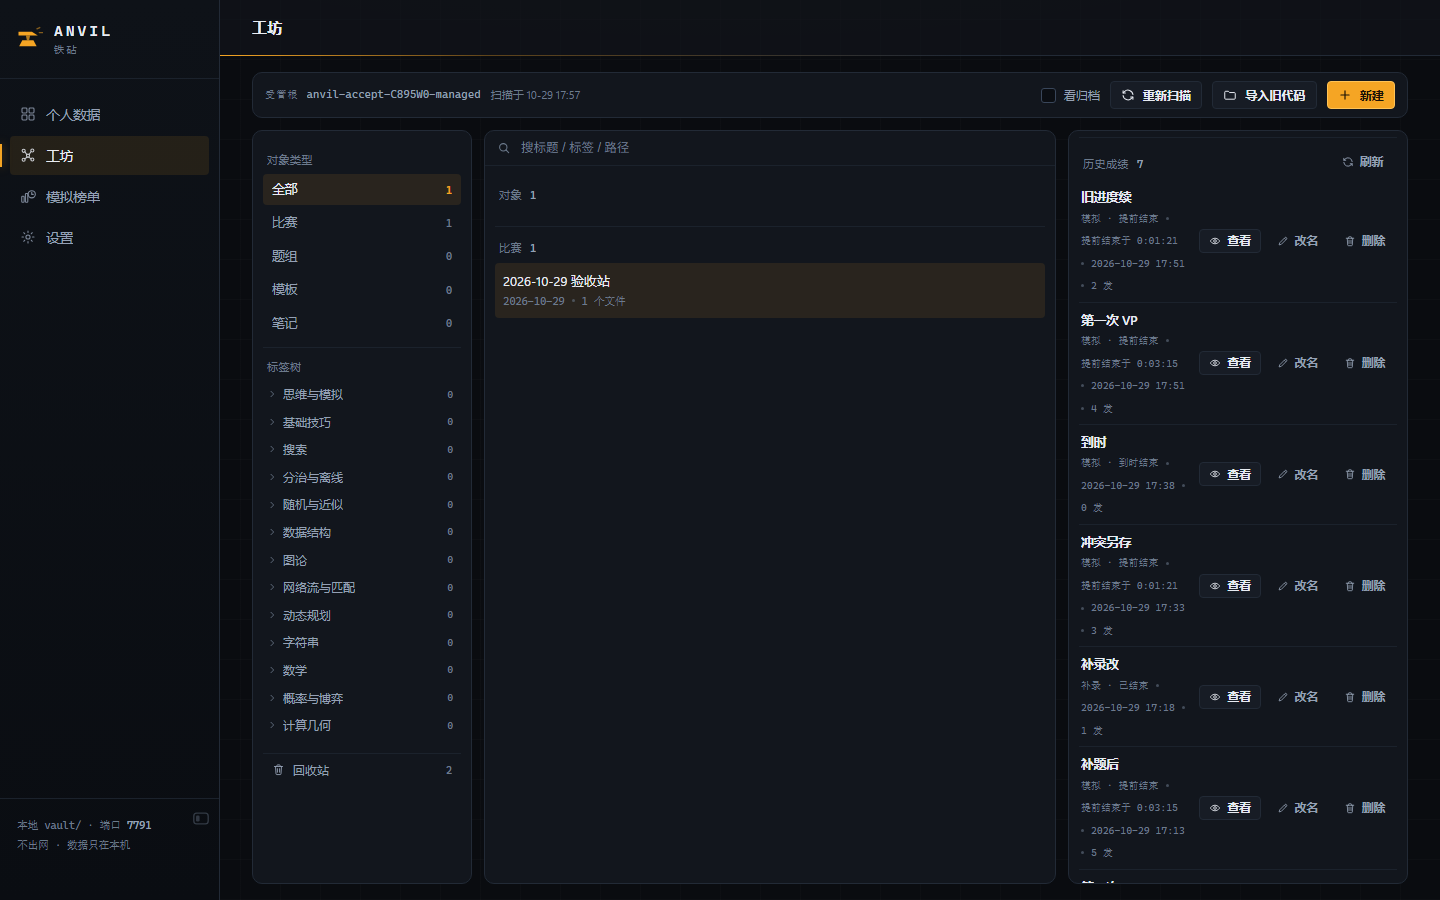
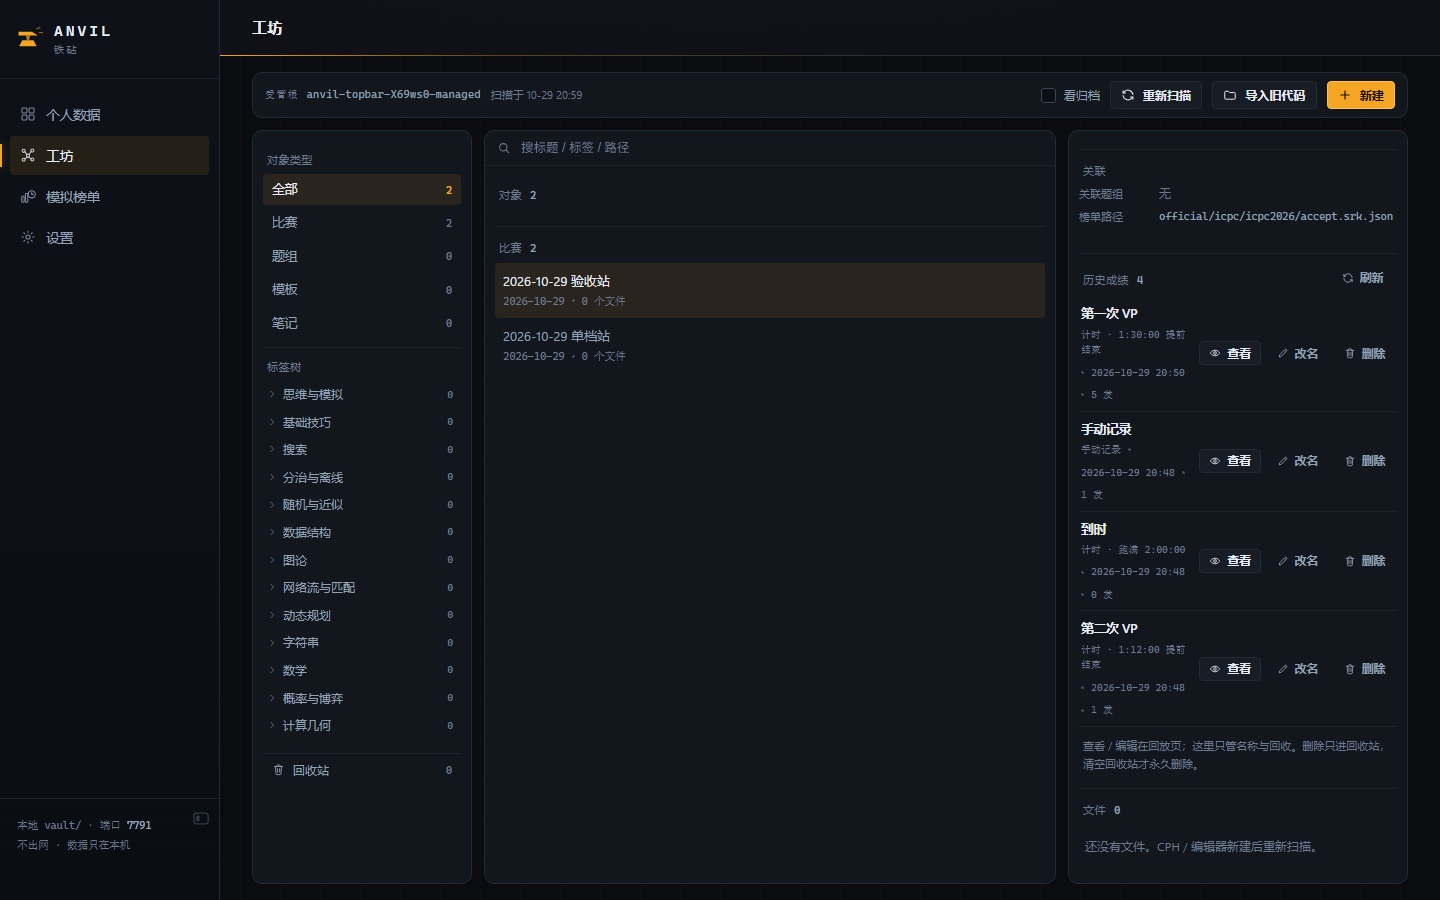
文档：顶栏收口转现行并补顶栏状态、菜单与 1280 验收截图

diff --git a/docs/reports/实现说明-榜单-多存档.md b/docs/reports/实现说明-榜单-多存档.md
@@ -5,7 +5,7 @@
 > **类型**：交付报告
 > **依据**：[29-榜单-多存档契约](../contracts/29-榜单-多存档契约.md)
 > **关联**：[16-模拟榜单规格](../contracts/16-模拟榜单规格.md)、[20-榜单增强规格](../contracts/20-榜单增强规格.md)、[23-工坊-代码管辖契约](../contracts/23-工坊-代码管辖契约.md)、[26-工坊-题组组合契约](../contracts/26-工坊-题组组合契约.md)、[27-工坊-关联上限与归档冻结契约](../contracts/27-工坊-关联上限与归档冻结契约.md)、[5a-5 报告 §6](实现说明-工坊-5a5.md)
-> **实现**：分支 `feat/arena-multi-records`（基于 main `e4c0f2a`；文档提交 `eb7f4aa`）；实现提交 `9a32fa1`（shared / server）、`563c7d4`（web）、`70f8eef`（验收修复）、`acfb6be`（多标签失效修复）、`cccd6a0`（1280 顶栏）；`npm run verify` 32 文件、620/620；待合并 main。
+> **实现**：分支 `feat/arena-multi-records`（基于 main `e4c0f2a`；文档提交 `eb7f4aa`）；实现提交 `9a32fa1`（shared / server）、`563c7d4`（web）、`70f8eef`（验收修复）、`acfb6be`（多标签失效修复）、`cccd6a0`（1280 顶栏）、`be82553`（顶栏收口）、`ba8b9c7`（顶栏验收细节）；`npm run verify` 32 文件、620/620；待合并 main。
 
 ---
 
@@ -36,6 +36,7 @@
 | D8 | 旧 review 可看且不假称完赛；旧 live 可显式恢复 | 完成 | 旧 review 投影 `legacy-review/unknown`、改名保留 unknown、确认后转 manual；旧 live 恢复为暂停草稿、原件不删、训练结束另建新档 |
 | D9 | 过期写入被拒；慢响应不串档 | 完成 | 服务端 revision；外部改名后保存 409 + 本地修改保留 + 另存；真实两标签写入使旧页失效；`multi-06` |
 | D10 | §8 自动测试 + 隔离浏览器验收 + 文档同步 | 完成 | 本文、契约状态、docs/README、AGENTS 已同步；§4 / §5 |
+| D11 | 顶栏只留一个主操作；其余进带文字的更多菜单；状态与文案收口；1280 不折行 | 完成 | 五种身份 + 菜单键盘 + 多档计数 + 1280 均验；查看身份无保存、编辑身份保留保存（用户确认）；`multi-10` / `multi-11` / `multi-12` / `multi-13` / `multi-14` / `multi-09` |
 
 ---
 
@@ -45,6 +46,7 @@
 - **服务端**：`work/records.ts` 文件层 + `work/store.ts` 宿主 / 写队列 / 回收站；新 `arena-records` 系列接口（列表 / 条目 / 旧档 / 创建 / 更新 / 改名 / 回收 / 恢复），创建 201 / 幂等 200，成绩写 1 MiB；回收清单 schema 2 `arena-record` 与对象 schema 1 并存。
 - **前端**：单键 `arena:draft:<path>` 草稿（phase / session / ghost / result / target / savedBaseline / pendingSave）；旧 `arena:session:` / `arena:ghost:` 在新键不存在时迁移，成功后才删旧键；三种身份（当前练习 / 查看 / 编辑）加查看终榜；历史选择层、命名 / 替换确认、冲突与未知结果对账、多标签失效提示。
 - **工坊**：比赛详情「历史成绩」区（改名 / 删除 / 旧进度恢复），回收站两类条目徽标、所属比赛与父比赛提示。
+- **顶栏收口（§6.1.1 / D11）**：常驻只留回到目录 / 标题 / 状态条 / 时钟（并入状态条）/ 我的成绩排名 / 保存；其余进带文字的「更多」菜单（历史成绩 + 计数、我的成绩、另存一份、再练一次、手动记一场、标记旧成绩已结束、重试对账）；查看身份主按钮改为编辑成绩、无保存；编辑身份保留保存（用户确认）；封榜视角 / 仅正式队移到榜体第二行工具条；状态统一为一句话；多档时保存右侧显示 `→ 目标`，单档仅 tooltip，保存成功短暂显示 `已保存到 …`；多档首次出现时全局提示一次历史成绩入口已进菜单。
 - **旧数据**：旧根 `record.json` 只读兼容；review 投影进 `records`，live 只进 `legacy`；仅改名升级保留 unknown，编辑需确认结束后转 manual；旧 live 恢复不改原文件。
 - 不新增依赖、不新增 SQLite 表、不改比赛 / 题组模型。
 
@@ -75,11 +77,12 @@ vite build  ✓（dist 约 447 KB / gzip 134 KB）
 | B 计时中查看 A、拖轴、回 B | A 只读；草稿仍 0 发、目标 null；窗口标签仍是 B 的练习 |
 | B 有修改编辑 A：取消 / 放弃 / 保存后切换 | 三条路径均验；取消保留 B；放弃丢弃修改；保存后 A 更新成功再载入 B |
 | 编辑 A 后另存「补题后」 | A 不变（4 发），新档出现；后续保存只更新新档（5 发） |
-| 零提交保存 / 事后补录 | 零成绩 0 发保存成功；查看终榜 → 录入已结束的成绩 → manual/declared 保存成功 |
+| 零提交保存 / 事后补录 | 零成绩 0 发保存成功；查看终榜 → 更多 → 手动记一场 → manual/declared 保存成功 |
 | 回收单档 / 整场 / 恢复 / 清空 | 单档恢复保 ID；整场恢复带回档；父比赛回收时单档恢复被挡并提示；清空删除两类合法条目 |
-| 旧 review / 旧 live | review 投影「结束时间未知」；改名保留 unknown；确认后编辑转 manual；live 恢复默认暂停、原件保留、新建「旧进度续」 |
+| 旧 review / 旧 live | review 投影「旧存档 · 结束时间未知」；改名保留 unknown；标记旧成绩已结束后编辑转 manual；live 恢复默认暂停、原件保留、新建「旧进度续」 |
 | 两标签编辑同档 | 真实两页同源：另一页写入后旧页出现「另一个标签页改了本场草稿」并拒绝写入，重新读取后恢复；外部改名后保存返回 409，本地修改保留，另存成功 |
 | 断网 / 读档失败 / 保存失败 | 无效 record 深链留在错误态可重试、不退回草稿；停服务后保存显示「保存结果未知」，本地草稿保留；重启后可重新读取 |
+| 顶栏五种状态 / 菜单键盘 / 1280 | 进行中 / 已结束 / 查看 / 编辑 / 旧成绩各只出现一个主操作；状态一句话；Tab / Enter 展开，方向键移动，Escape 关闭并归还焦点；1280 标题省略、保存与「更多」不折行（`scrollWidth = clientWidth`） |
 
 - 浏览器验收使用临时数据；测试后已清理临时成绩 / 笔记、恢复临时回收站并关闭自起服务。
 
@@ -90,14 +93,19 @@ vite build  ✓（dist 约 447 KB / gzip 134 KB）
 | 文件 | 证明 |
 |---|---|
 | `design/_shots/multi-01-catalog.png` | 目录行显示「已结束 · 已保存」、查看成绩 / 查看终榜 / 历史成绩入口 |
-| `design/_shots/multi-02-practice.png` | 当前练习身份、结束状态、保存 / 另存、保存目标名、历史入口 |
-| `design/_shots/multi-03-history.png` | 历史层多档 + 结束状态 + 旧进度行 |
-| `design/_shots/multi-04-view.png` | 「查看：补题后」只读身份、A 档幽灵行、编辑成绩 / 回到当前练习 |
+| `design/_shots/multi-02-practice.png` | 顶栏收口后的当前练习：单状态「当前练习 · 已保存」、保存为主、`→ 第一次 VP`、第二行开关 |
+| `design/_shots/multi-03-history.png` | 历史层多档 + 新文案（计时 / 手动记录 / 跑满 / 提前结束） |
+| `design/_shots/multi-04-view.png` | 「查看：第一次 VP · 1:30:00 提前结束 · 当前练习仍在计时」、编辑成绩主按钮、无保存 |
 | `design/_shots/multi-05-replace.png` | 进行中草稿的替换确认（结束并保存 / 放弃 / 取消） |
 | `design/_shots/multi-06-conflict.png` | revision 冲突条、本地修改仍在、重新读取 / 另存 |
-| `design/_shots/multi-07-workbench-records.png` | 工坊比赛详情历史成绩区（改名 / 删除 / 查看） |
+| `design/_shots/multi-07-workbench-records.png` | 工坊比赛详情历史成绩区（改名 / 删除 / 查看，新结束文案） |
 | `design/_shots/multi-08-workbench-trash.png` | 回收站两类条目（对象 / 成绩）、所属比赛、恢复动作 |
-| `design/_shots/multi-09-practice-1280.png` | 1280 宽度顶栏不溢出；目标名让位，全名在保存按钮 tooltip |
+| `design/_shots/multi-09-practice-1280.png` | 1280 宽度标题省略，保存与「更多」不折行、不溢出 |
+| `design/_shots/multi-10-menu.png` | 「更多」菜单：历史成绩（计数 4）/ 我的成绩 / 另存一份 / 再练一次 |
+| `design/_shots/multi-11-running.png` | 进行中状态「当前练习 · 计时 0:01:06」、无保存、菜单与时钟控制 |
+| `design/_shots/multi-12-edit.png` | 编辑身份「编辑：第一次 VP · 有修改未保存」、保存为主、回到当前练习 |
+| `design/_shots/multi-13-legacy.png` | 旧成绩「旧成绩 · 需确认是否已结束」、菜单含「标记旧成绩已结束」 |
+| `design/_shots/multi-14-review.png` | 查看终榜「查看终榜 · 只读」、菜单含「手动记一场」、无保存 |
 
 ---
 
@@ -107,6 +115,7 @@ vite build  ✓（dist 约 447 KB / gzip 134 KB）
 - **多标签不承诺并行编辑**：同一草稿被另一标签改动后，旧页只读并要求重新读取；正式档靠 revision 防覆盖。真实双页已验证失效提示，未做自动合并。
 - **超时对账路径**：浏览器实测的是“服务不可达 → 结果未知 → 重新读取”；60s 读超时后的 idempotent 重试由服务端单测覆盖，未在浏览器里构造完整 60s 延迟。
 - **1280 顶栏**：保存目标名在 ≤1320 隐藏，全名放在「保存」按钮 title；这是契约允许的“省略但可查看全名”。
+- **顶栏收口口径（用户 2026-10-29 确认）**：查看历史身份不显示保存（主按钮编辑成绩）；编辑身份保留保存为主按钮；「我的成绩」进菜单；不新增“存到其它档”；多档历史入口提示全局一次。
 - **工坊历史区滚动**：记录多时右栏需要滚动；未做分页（个人数据量，非本片范围）。
 - **不处理**：单份永久删除、成绩曲线、存档内版本历史、自动合并冲突、性能专项、真实 srk 数据入库（契约 §2.2）。
 
@@ -116,7 +125,7 @@ vite build  ✓（dist 约 447 KB / gzip 134 KB）
 
 - `packages/shared/src/arena-records.ts`（新）：schema 2、结果组合、名称 / ID、DTO、旧 review 投影；`work.ts` 抽出 ghost 校验并扩展回收条目联合类型。
 - `packages/server/src/work/records.ts`（新）：存档文件、revision、缓存榜单校验、回收清单、恢复映射；`store.ts` / `routes.ts`：宿主解析、写队列、接口与两类回收。
-- `packages/web/src/components/arena/draft.ts`（新）、`ArenaDialogs.tsx`（新）、`ArenaBoard.tsx` / `ArenaCatalog.tsx` / `Arena.tsx` / `record.ts` / `session.ts` / `GhostPanel.tsx` / `App.tsx` / `api.ts`。
+- `packages/web/src/components/arena/draft.ts`（新）、`ArenaDialogs.tsx`（新）、`ArenaMenu.tsx`（新）、`ArenaBoard.tsx` / `ArenaCatalog.tsx` / `Arena.tsx` / `record.ts` / `session.ts` / `GhostPanel.tsx` / `App.tsx` / `api.ts`。
 - `packages/web/src/components/work/WorkRecords.tsx`（新）、`WorkDetail.tsx` / `WorkList.tsx` / `Workbench.tsx`；`styles.css`。
 - 复现：`npm run dev` 后 `#/arena`；或 `npm run build` + `npm start`。真实使用时比赛首次保存会创建 `contest` 与 `.anvil-records/`。
 

diff --git a/docs/contracts/29-榜单-多存档契约.md b/docs/contracts/29-榜单-多存档契约.md
@@ -5,7 +5,7 @@
 > **类型**：功能契约
 > **依据**：用户确认“一场比赛、多份训练结果、每场一份当前草稿”；正式存档仅在训练结束后保存，切换前询问未保存修改，单份删除可恢复。
 > **关联**：[16-模拟榜单规格](16-模拟榜单规格.md)、[20-榜单增强规格](20-榜单增强规格.md)、[23-工坊-代码管辖契约](23-工坊-代码管辖契约.md)、[26-工坊-题组组合契约](26-工坊-题组组合契约.md)、[27-工坊-关联上限与归档冻结契约](27-工坊-关联上限与归档冻结契约.md)；历史限制见 [5a-5 报告 §6](../reports/实现说明-工坊-5a5.md)。
-> **实现**：分支 `feat/arena-multi-records`（基于 main `e4c0f2a`，文档提交 `eb7f4aa`）；实现提交 `9a32fa1`（shared / server）、`563c7d4`（web）、`70f8eef`（验收修复）、`acfb6be`（多标签失效修复）、`cccd6a0`（1280 顶栏）；`npm run verify` 32 文件、620/620。交付与验收见 [实现说明-榜单-多存档](../reports/实现说明-榜单-多存档.md)。
+> **实现**：分支 `feat/arena-multi-records`（基于 main `e4c0f2a`，文档提交 `eb7f4aa`）；实现提交 `9a32fa1`（shared / server）、`563c7d4`（web）、`70f8eef`（验收修复）、`acfb6be`（多标签失效修复）、`cccd6a0`（1280 顶栏）、`be82553`（顶栏收口）、`ba8b9c7`（顶栏验收细节）；`npm run verify` 32 文件、620/620。交付与验收见 [实现说明-榜单-多存档](../reports/实现说明-榜单-多存档.md)。
 > **编号**：28 已用于备存分支的 UI/UX 契约，本篇使用 29，不取代或启用 UI/UX 方案。
 
 ---
@@ -233,26 +233,27 @@
 - 目录显示当前练习的进行中 / 已结束未保存状态，不拿“最新档时间”替代当前练习状态；零成绩也能找到保存入口。
 - 进入历史列表后才读该场存档，不为整个外部目录逐场发请求，不把工坊存档数混进上游目录 DTO。
 
-#### 6.1.1 顶栏收口（2026-10-29 追加，待实现）
+#### 6.1.1 顶栏收口（2026-10-29 追加，已实现）
 
-> 现状是十个同级动作平铺，并用“当前练习”+“补录 · 已结束”两个标签重复表达同一状态，既是宽度压力也是语义矛盾。以下为目标口径；落地前代码仍按旧布局。
+> 旧布局是十个同级动作平铺，并用“当前练习”+“补录 · 已结束”两个标签重复表达同一状态，既是宽度压力也是语义矛盾。以下为现行口径。
 
-**常驻（只保留这些）**：回到目录、比赛标题、状态条、时钟（仅当前练习进行中）、我的成绩排名（有幽灵行时）、**保存**（唯一主按钮，固定在最右）。
+**常驻（只保留这些）**：回到目录、比赛标题、状态条、时钟（仅当前练习进行中，时间并入状态条）、我的成绩排名（有幽灵行时）、**保存**（唯一主按钮，固定在最右）。
 
 **收进菜单**：`⋯` 触发器必须带可见文字“更多”，不得是纯图标。
 
 | 菜单项 | 说明 |
 |---|---|
 | 历史成绩 | 打开 §6.1 的存档选择层；有多档时显示计数 |
+| 我的成绩 | 打开逐发录入 / 只读面板；查看历史时只读（2026-10-29 用户确认） |
 | 另存一份 | 等同原“另存”；原档不变 |
 | 再练一次 | 等同原“重新练一次”；替换草稿前按 §3.4 询问 |
 | 手动记一场 | 仅“查看终榜 / 无计时”场景；等同原“录入已结束的成绩” |
 | 标记旧成绩已结束 | 仅旧成绩未标记结束时出现；等同原“确认已结束” |
 | 重试对账 | 仅存在未确认的新建请求时出现 |
 
-- 同一动作不得同时出现在常驻区和菜单（保存除外，其菜单内提供“另存一份 / 存到其它档”）。
-- “历史成绩”入口从顶栏常驻降级到菜单，需在首次出现多档时给一次可见提示，避免发现性下降。
-- 查看 / 编辑历史身份下，主按钮位改放“编辑成绩”，次按钮为“回到当前练习”（无草稿则“开始新练习”）；该身份不显示保存，避免存错目标。
+- 同一动作不得同时出现在常驻区和菜单（保存除外，其菜单内提供“另存一份”；不新增覆盖同场其它已有档的“存到其它档”，2026-10-29 用户确认）。
+- “历史成绩”入口从顶栏常驻降级到菜单，需在首次出现多档时给一次可见提示，避免发现性下降；提示为全局一次（localStorage 记标记）。
+- 查看历史身份下，主按钮位改放“编辑成绩”，次按钮为“回到当前练习”（无草稿则“开始新练习”）；该身份不显示保存，避免存错目标。进入编辑身份后，保存仍是唯一主按钮（2026-10-29 用户确认）。
 - “封榜视角”“仅正式队”移到榜体工具条（第二行）；它们改变的是榜单显示，不属于成绩文件操作。
 - 状态用一个元素表达“身份 + 进度 + 未保存标记”，不得再叠加第二个 pill 重复同一事实：
 
@@ -261,8 +262,9 @@
 | 进行中 | `当前练习 · 计时 1:20:33`，暂停时追加 `· 已暂停` |
 | 已结束未保存 | `当前练习 · 已结束，未保存` |
 | 已结束已保存 | `当前练习 · 已保存` |
-| 手动记录（不计时） | `当前练习 · 手动记录，未保存` |
-| 查看历史 | `查看：第一次 VP · 2:15:00 提前结束` |
+| 手动记录（未保存） | `当前练习 · 手动记录，未保存` |
+| 手动记录（已保存） | `当前练习 · 手动记录，已保存` |
+| 查看历史 | `查看：第一次 VP · 2:15:00 提前结束`；后台仍在计时时追加 `· 当前练习仍在计时` |
 | 编辑历史 | `编辑：第一次 VP · 有修改未保存` |
 | 旧数据待确认 | `旧成绩 · 需确认是否已结束` |
 | 查看终榜（未建草稿） | `查看终榜 · 只读` |

diff --git a/docs/README.md b/docs/README.md
@@ -21,7 +21,7 @@
 
 | 文件 | 状态 | 说明 |
 |---|---|---|
-| [29-榜单-多存档契约](contracts/29-榜单-多存档契约.md) | **现行（2026-10-29 已实现，分支 `feat/arena-multi-records`，待合并 main；620/620）** | 同场多份结束后结果；每场一个草稿；只读历史不串档；保存指定 ID / 另存；单份回收 / 恢复；旧 review / live 数据保留；交付见 `reports/实现说明-榜单-多存档.md` |
+| [29-榜单-多存档契约](contracts/29-榜单-多存档契约.md) | **现行（2026-10-29 已实现，分支 `feat/arena-multi-records`，待合并 main；620/620）** | 同场多份结束后结果；每场一个草稿；只读历史不串档；保存指定 ID / 另存；单份回收 / 恢复；旧 review / live 数据保留；顶栏收口（保存为主 / 更多菜单 / 单状态条）；交付见 `reports/实现说明-榜单-多存档.md` |
 | `contracts/27-工坊-关联上限与归档冻结契约.md` | **现行（5a-5 已合并 main `5fa9ff0`；契约交付 567/567，main 当前组合 584/584）** | 比赛关联题组 0..n、题组最多一比赛；归档只读定格、跨归档关联；空比赛行题组计数；修复批次见报告 §6；2026-10-28 补记列表竞态 |
 | `contracts/26-工坊-题组组合契约.md` | **现行（5a-4 已合并 main `5fa9ff0`）** | 比赛 / 题组拆成 `contest` / `problemset`；逻辑 `parentId` 关联、独立生命周期（0..1 上限已被 27 取代为 0..n）；§3 迁移为一次性工具，已执行并移除 |
 | `contracts/25-工坊-批量题组导入契约.md` | **草案（5a-3 已合并 main `5fa9ff0`；对象类型由 26 接管）** | 批量叶子题组 / 散题 / `sourcePath` 来源视图；不建年 / 月对象或物理目录 |
@@ -94,7 +94,7 @@
 | 目录刷新失败可见 | `reports/实现说明-目录刷新失败.md` | 已合并 main（PR #3，`b4487df`；2026-10-28；刷新失败 stale + warn 条 / 无缓存错误屏；原批次 579/579） |
 | XCPC 超时对齐 | `reports/实现说明-XCPC超时对齐.md` | 已合并 main（PR #3，`b4487df`；2026-10-28；claim / refresh 90s → 180s；原分支 580/580） |
 | 工坊列表竞态 | `reports/实现说明-工坊列表竞态.md` | 已合并 main（PR #4；2026-10-28；最后请求胜出、选择状态与导入提示补修；原分支 580/580，三批组合 584/584，见 §8） |
-| 榜单多存档 | `reports/实现说明-榜单-多存档.md` | 待合并 main（分支 `feat/arena-multi-records`；2026-10-29；同场多档 / 单草稿 / 历史只读 / 单档回收 / 旧档兼容；620/620；隔离浏览器验收 + 9 张截图） |
+| 榜单多存档 | `reports/实现说明-榜单-多存档.md` | 待合并 main（分支 `feat/arena-multi-records`；2026-10-29；同场多档 / 单草稿 / 历史只读 / 单档回收 / 旧档兼容 / 顶栏收口；620/620；隔离浏览器验收 + 14 张截图） |
 | 2026-10-12 全仓审计 | `reports/审查结果-2026-10-12.md` | 历史输入，多条已被后续批次解决 |
 
 原始 agent 审计长文 / 会话记录不入库；只保留蒸馏后的报告与可核验数字。

diff --git a/AGENTS.md b/AGENTS.md
@@ -8,7 +8,7 @@
 
 2026-10-28 工坊列表竞态：活动 / 归档只认最后请求，旧请求取消并丢弃；合并前补修新建 / 导入自动选中与回收完成态，不抢用户新选择，导入结果提示保留。原分支独立验收 580/580，三批组合验收 **30 文件、584/584**；报告见 `docs/reports/实现说明-工坊列表竞态.md` §8，已合并 main（PR #4）。
 
-2026-10-29 榜单多存档交付：[29-榜单-多存档契约](docs/contracts/29-榜单-多存档契约.md) 已实现（现行，分支 `feat/arena-multi-records`，待合并 main；实现提交 `9a32fa1` / `563c7d4`，验收修复 `70f8eef` / `acfb6be`）；同场多档、单草稿、历史只读、单档回收 / 恢复、旧 review / live 兼容；`npm run verify` 32 文件、620/620；隔离浏览器验收覆盖 §8.2，截图见 `design/_shots/multi-*.png`；报告见 `docs/reports/实现说明-榜单-多存档.md`。旧单份 `record.json` 只保留读取兼容，16 / 20 / 23 / 27 的其余规则不变；28 号 UI/UX 契约继续备存。同晚追加「顶栏收口」（契约 §6.1.1 / D11）：只留保存为主操作，其余收进带文字的「更多」菜单，两个显示开关下移第二行，状态与文案统一成一句话；**口径已写、实现待做**，在此之前界面仍是旧布局。
+2026-10-29 榜单多存档交付：[29-榜单-多存档契约](docs/contracts/29-榜单-多存档契约.md) 已实现（现行，分支 `feat/arena-multi-records`，待合并 main；实现提交 `9a32fa1` / `563c7d4`，验收修复 `70f8eef` / `acfb6be`，顶栏收口 `be82553` / `ba8b9c7`）；同场多档、单草稿、历史只读、单档回收 / 恢复、旧 review / live 兼容；`npm run verify` 32 文件、620/620；隔离浏览器验收覆盖 §8.2，截图见 `design/_shots/multi-*.png`；报告见 `docs/reports/实现说明-榜单-多存档.md`。旧单份 `record.json` 只保留读取兼容，16 / 20 / 23 / 27 的其余规则不变；28 号 UI/UX 契约继续备存。同晚追加「顶栏收口」（契约 §6.1.1 / D11）并已实现（`be82553`，验收细节 `ba8b9c7`）：只留保存为主操作，其余收进带文字的「更多」菜单，两个显示开关下移第二行，状态与文案统一成一句话；浏览器验收覆盖五种身份、菜单键盘、多档计数与 1280 宽度，截图见 `design/_shots/multi-10..14` 及各状态图。
 
 ## 先读什么
 
